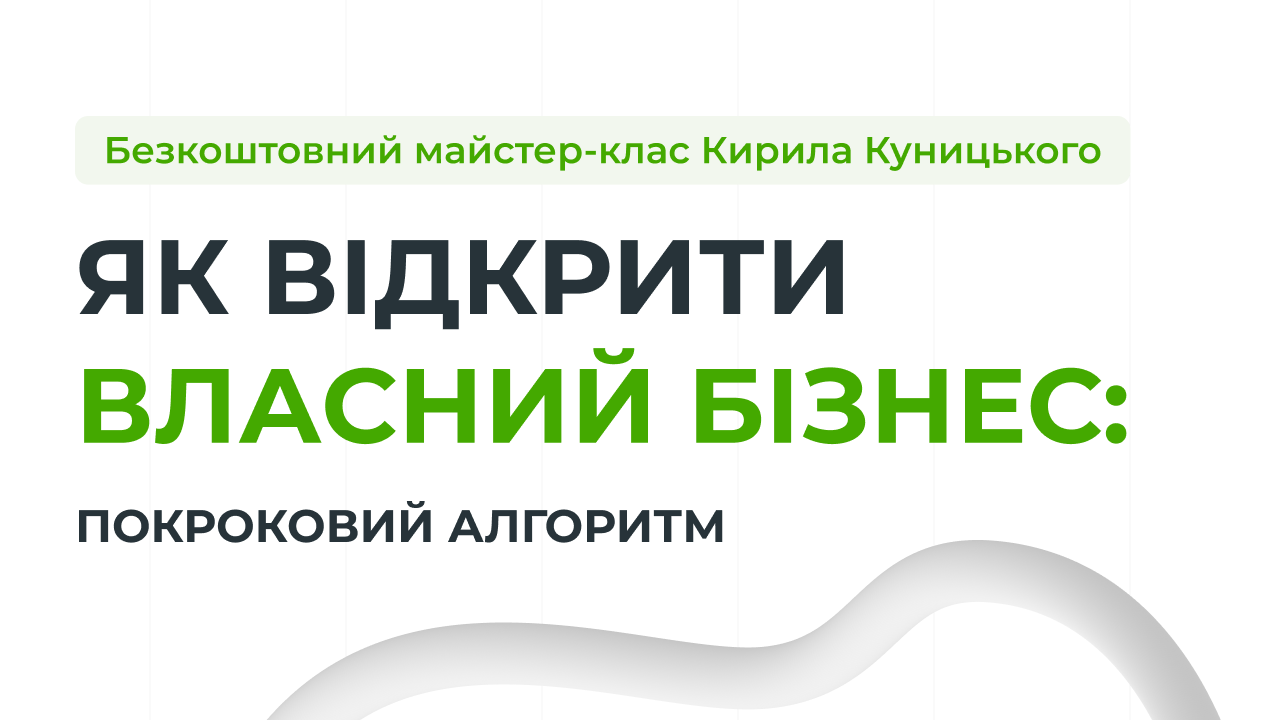
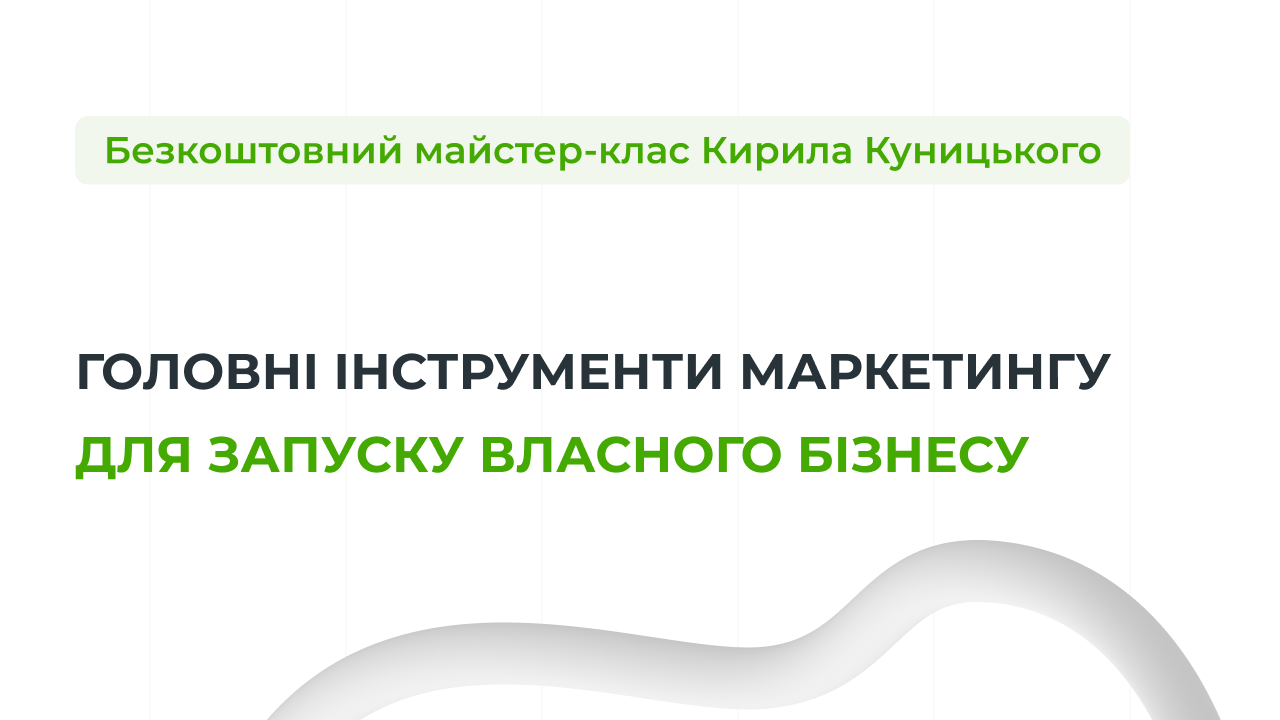
fix

Changed region(s): [[0.0625, 0.4889, 0.9062, 0.6722], [0.0625, 0.3361, 0.6562, 0.4583], [0.0625, 0.7028, 0.5625, 0.7639]]

diff --git a/startup_web2/index.htm b/startup_web2/index.htm
@@ -199,7 +199,8 @@
             Безкоштовний майстер-клас Кирила Куницького
           </div>
           <h1 class="hero__title">
-            Головні інструменти маркетингу для запуску власного бізнесу
+            ГОЛОВНІ ІНСТРУМЕНТИ МАРКЕТИНГУ
+            <span>ДЛЯ ЗАПУСКУ ВЛАСНОГО БІЗНЕСУ</span>
           </h1>
           <!-- <div class="hero__subtitle">
             покроковий <br class="d-none d-xl-block" />
@@ -3190,7 +3191,7 @@
                     <input
                       type="hidden"
                       name="send_to_gf"
-                      value="gf_sturtap_web"
+                      value="gf_sturtap_web2"
                     />
                   </div>
 
@@ -3216,9 +3217,8 @@
               </div>
             </div>
             <p class="hero__add_btm">
-              Зареєструйтеся протягом <span id="hero__timer">0:00</span> і
-              отримайте миттєво корисний подарунок– чек-лист ефективного
-              бізнесу.
+              Зареєструйся протягом <span id="hero__timer">0:00</span> і отримай
+              миттєво корисний подарунок – чек-лист ефективного бізнесу.
             </p>
           </div>
         </div>
@@ -3524,7 +3524,7 @@
           </div>
         </div>
       </section>
-      <div class="bg" id="registration">
+      <div class="bg">
         <div
           class="bg__dec lazy entered loaded d-none d-xl-block"
           data-bg="img/dec3.png"
@@ -3597,7 +3597,7 @@
           </div>
         </section>
 
-        <section class="registration">
+        <section id="registration" class="registration">
           <div class="container">
             <div class="registration__inner">
               <div class="registration__text">
@@ -6585,7 +6585,7 @@
                     <input
                       type="hidden"
                       name="send_to_gf"
-                      value="web_07092023"
+                      value="gf_sturtap_web2"
                     />
                   </div>
                   <div class="form__btn-wrap">

diff --git a/startup_web2/css/main.css b/startup_web2/css/main.css
@@ -817,13 +817,19 @@ a {
 }
 @media (min-width: 1200px) {
   .hero__title {
-    font-size: 46px;
+    font-size: 43px;
     margin-bottom: 32px;
-    max-width: 600px;
+    max-width: 900px;
+    line-height: 1.4;
   }
 }
 .hero__title span {
   color: #44a900;
+}
+@media (min-width: 1200px) {
+  .hero__title span {
+    display: block;
+  }
 }
 .hero__dec {
   width: 730px;
@@ -1514,7 +1520,7 @@ a {
   .registration__list {
     padding-top: 0;
     font-size: 16px;
-    gap: 20px;
+    gap: 16px;
   }
 }
 @media (min-width: 1200px) {

diff --git a/startup_web2/scss/sections/_hero.scss b/startup_web2/scss/sections/_hero.scss
@@ -98,13 +98,17 @@
     line-height: 1;
 
     @include media-breakpoint-up(xl) {
-      font-size: 46px;
+      font-size: 43px;
       margin-bottom: 32px;
-      max-width: 600px;
+      max-width: 900px;
+      line-height: 1.4;
     }
 
     span {
       color: #44a900;
+      @include media-breakpoint-up(xl) {
+        display: block;
+      }
     }
   }
 

diff --git a/startup_web2/scss/sections/_registration.scss b/startup_web2/scss/sections/_registration.scss
@@ -86,7 +86,7 @@
     @include media-breakpoint-up(xl) {
       padding-top: 0;
       font-size: 16px;
-      gap: 20px;
+      gap: 16px;
     }
   }
   .form {

diff --git a/gf_sturtap_web2/export.php b/gf_sturtap_web2/export.php
@@ -35,7 +35,7 @@ $data['entry.648990995'] = isset($_POST['ref']) ? $_POST['ref'] : false;
 
 
 // теперь подготовим данные для отправки в гугл форму
-$url = 'https://docs.google.com/forms/u/1/d/e/1FAIpQLSdnLI1-1mrbj4iNCKn4Mo_jn91ZEUnT6mexmLaFBiTAwk3sew/formResponse'; // куда слать, это атрибут action у гугл формы
+$url = 'https://docs.google.com/forms/u/1/d/e/1FAIpQLSfGCeEKnVvf65vrESuD5tsWgLKdbqWIWSB0Eb0kumAw3qUA_Q/formResponse'; // куда слать, это атрибут action у гугл формы
 
 
 $data = http_build_query($data); // теперь сериализуем массив данных в строку для отправки
